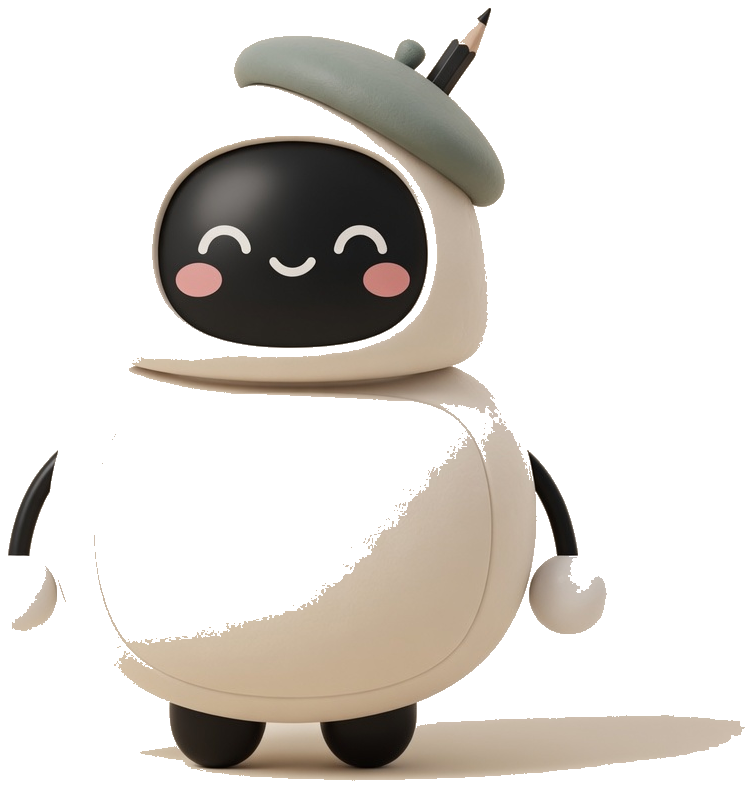
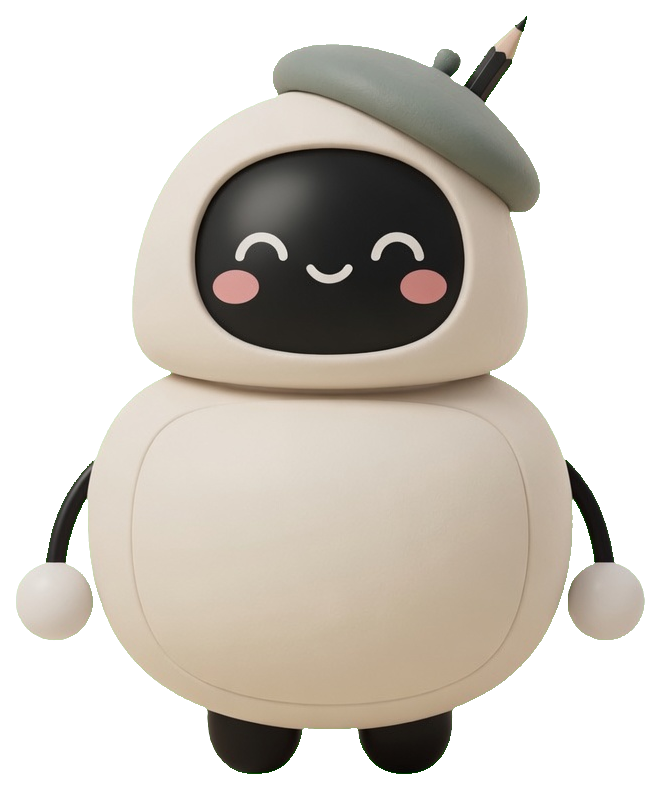
Float Little Helper as 3D cutout with no background card
- Transparent PNG character (green-screen cutout)
- Remove beige card frame entirely
- Depth via drop-shadow on the 3D guy only
- Chat plate sits on the belly
- Bump to 0.2.31

diff --git a/src/index.css b/src/index.css
@@ -5553,58 +5553,56 @@ html[data-reduce-motion='true'] *::after {
     inset 0 3px 0 rgba(255, 255, 255, 0.55);
 }
 
-/* Full 3D mascot — one character, chat on the belly */
+/* Floating 3D guy — no background card, just the character */
 .buddy-mascot {
-  --buddy-studio: #f0ebe0;
   position: relative;
-  width: min(300px, calc(100vw - 1.4rem));
-  aspect-ratio: 1 / 1.12;
-  border-radius: 32px;
-  background: var(--buddy-studio);
-  box-shadow:
-    0 20px 44px rgba(26, 26, 26, 0.15),
-    0 0 0 1px rgba(200, 190, 170, 0.4);
-  overflow: hidden;
+  width: min(280px, calc(100vw - 1.5rem));
+  aspect-ratio: 661 / 790;
+  background: transparent;
+  border: none;
+  border-radius: 0;
+  box-shadow: none;
+  overflow: visible;
 }
 
 .buddy-mascot-art {
   position: absolute;
-  inset: -2% 0 0;
+  inset: 0;
   width: 100%;
-  height: 104%;
+  height: 100%;
   object-fit: contain;
-  object-position: center top;
+  object-position: center bottom;
   pointer-events: none;
   user-select: none;
   z-index: 1;
+  /* Real depth without a card */
+  filter: drop-shadow(0 14px 22px rgba(15, 23, 42, 0.22))
+    drop-shadow(0 4px 8px rgba(15, 23, 42, 0.12));
 }
 
-/* Soft glass plate on the belly — readable, still part of the body */
+/* Chat lives on the belly only — soft inset plate, no outer frame */
 .buddy-belly-ui {
   position: absolute;
   z-index: 3;
-  left: 18%;
-  right: 18%;
-  top: 51%;
-  bottom: 13%;
+  left: 22%;
+  right: 22%;
+  top: 48%;
+  bottom: 16%;
   display: flex;
   flex-direction: column;
   min-height: 0;
-  padding: 0.5rem 0.55rem 0.45rem;
-  border-radius: 1.35rem;
+  padding: 0.45rem 0.5rem 0.4rem;
+  border-radius: 1.15rem;
   background: linear-gradient(
     165deg,
-    rgba(255, 253, 248, 0.72) 0%,
-    rgba(255, 252, 246, 0.92) 40%,
-    rgba(248, 243, 234, 0.96) 100%
+    rgba(255, 253, 248, 0.82) 0%,
+    rgba(255, 252, 246, 0.94) 100%
   );
-  border: 1px solid rgba(255, 255, 255, 0.75);
+  border: 1px solid rgba(255, 255, 255, 0.7);
   box-shadow:
-    inset 0 1px 0 rgba(255, 255, 255, 0.9),
-    0 8px 18px rgba(26, 26, 26, 0.08);
+    inset 0 1px 0 rgba(255, 255, 255, 0.95),
+    0 4px 14px rgba(15, 23, 42, 0.08);
   overflow: hidden;
-  backdrop-filter: blur(2px);
-  -webkit-backdrop-filter: blur(2px);
 }
 
 .buddy-mascot-bang {
@@ -5662,22 +5660,19 @@ html[data-reduce-motion='true'] *::after {
   animation: buddyWiggle 0.8s ease-in-out infinite;
 }
 
-.buddy-shell.is-focus .buddy-mascot {
-  box-shadow:
-    0 18px 40px rgba(26, 26, 26, 0.14),
-    0 0 0 3px rgba(13, 148, 136, 0.4);
+.buddy-shell.is-focus .buddy-mascot-art {
+  filter: drop-shadow(0 14px 22px rgba(15, 23, 42, 0.22))
+    drop-shadow(0 0 0 3px rgba(13, 148, 136, 0.45));
 }
 
-.buddy-shell.is-hyper .buddy-mascot {
-  box-shadow:
-    0 18px 40px rgba(26, 26, 26, 0.14),
-    0 0 0 3px rgba(245, 158, 11, 0.5);
+.buddy-shell.is-hyper .buddy-mascot-art {
+  filter: drop-shadow(0 14px 22px rgba(15, 23, 42, 0.22))
+    drop-shadow(0 0 0 3px rgba(245, 158, 11, 0.5));
 }
 
-.buddy-shell.is-levelup .buddy-mascot {
-  box-shadow:
-    0 18px 40px rgba(26, 26, 26, 0.14),
-    0 0 0 3px rgba(251, 191, 36, 0.55);
+.buddy-shell.is-levelup .buddy-mascot-art {
+  filter: drop-shadow(0 14px 22px rgba(15, 23, 42, 0.22))
+    drop-shadow(0 0 0 3px rgba(251, 191, 36, 0.55));
 }
 
 .bf-belly-meta {
@@ -5807,17 +5802,13 @@ html[data-reduce-motion='true'] *::after {
   color: #2a2722;
 }
 
-.app.deep .buddy-mascot {
-  --buddy-studio: #1a2230;
-}
-
 .app.deep .buddy-belly-ui {
   background: linear-gradient(
     180deg,
-    rgba(30, 38, 52, 0.55) 0%,
-    rgba(26, 34, 48, 0.9) 100%
+    rgba(30, 38, 52, 0.75) 0%,
+    rgba(26, 34, 48, 0.92) 100%
   );
-  border-color: rgba(255, 255, 255, 0.08);
+  border-color: rgba(255, 255, 255, 0.1);
 }
 
 .app.deep .bf-name {

diff --git a/src/components/BuddyMate.jsx b/src/components/BuddyMate.jsx
@@ -44,7 +44,7 @@ import {
 import useAppStore from '../store/useAppStore'
 
 const BUDDY_BASE = `${import.meta.env.BASE_URL}buddy/`
-const BODY_SRC = `${BUDDY_BASE}helper-body-raw.jpg`
+const BODY_SRC = `${BUDDY_BASE}helper-body.png`
 const FAB_SRC = `${BUDDY_BASE}helper-fab.jpg`
 
 /**